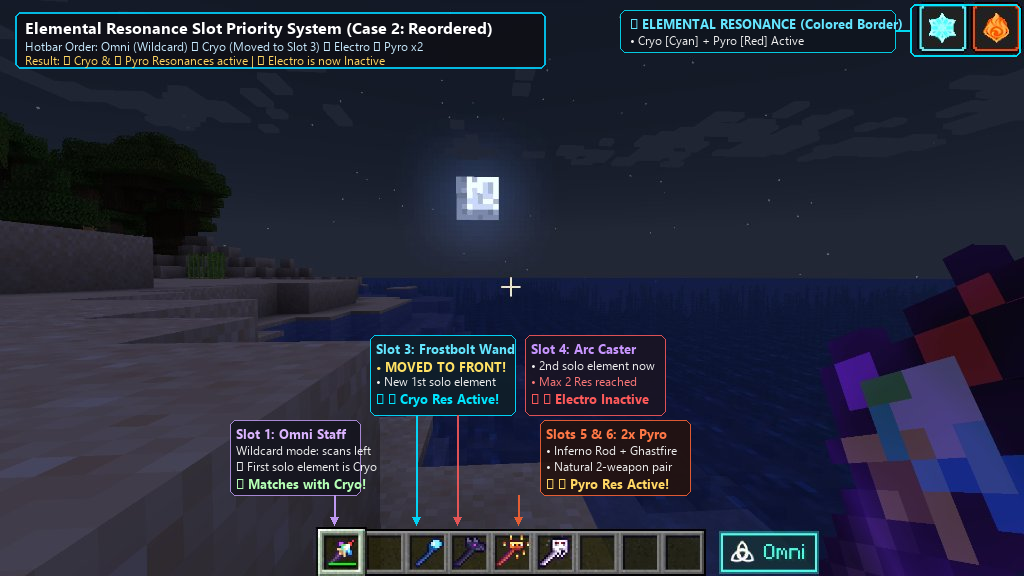
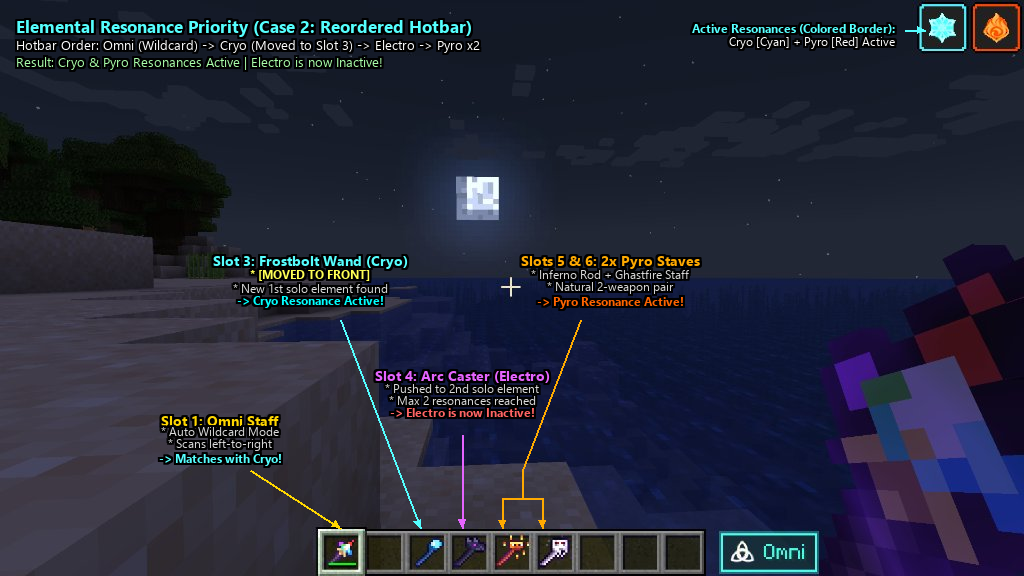
docs: redesign resonance showcase diagrams (frameless clean style), fix Blaze & Omni captions, add Fabric anvil plan

diff --git a/docs/wiki/Staves-List.md b/docs/wiki/Staves-List.md
@@ -91,7 +91,7 @@ Combine a **Netherite Upgrade Template** + **Any Basic Elemental Staff** + <img 
 
 | Staff | Element | Base & Netherite Stats | Crafting Recipe & Mechanics |
 | :--- | :---: | :--- | :--- |
-| <img src="https://raw.githubusercontent.com/hungbbdzz/velorise-staves/main/shared-resources/assets/velorise_staves/textures/item/guardian_lens.png" width="32" height="32" /><br/>**Guardian Lens** | <img src="https://raw.githubusercontent.com/hungbbdzz/velorise-staves/main/shared-resources/assets/velorise_staves/textures/element/hydro.png" width="16" height="16" /><br/>Hydro | **Reach:** 24m / 28m<br/>**Damage:** (10% to 20% caster Max HP) + 1U Hydro / (15% to 30% Max HP) + 1.5U Hydro<br/>**Cooldown:** 6.0s (Basic) / 5.0s (Netherite)<br/>**Durability:** 130 / 500 | **Recipe:** Shaped (1 Heart of the Sea + 1 Prismarine Shard + 1 Prismarine Crystals diagonal).<br/>**Ability:** Fires a concentrated Guardian prism beam. Damage scales directly as **1/10 (10%) of user's Max HP** (15% for Netherite), doubling to 20% (30% Netherite) if the user has recently taken or healed damage within the last 10 seconds.<br/>*(Note: In v1.0.0, the in-game item tooltip displays a legacy "x 10" suffix which is a visual tooltip error scheduled for cleanup in the next patch; the actual beam fires as a single focused hit).*<br/><br/><img src="https://raw.githubusercontent.com/hungbbdzz/velorise-staves/main/docs/showcase/crafting/craft_guardian_lens.png" width="220" /> |
+| <img src="https://raw.githubusercontent.com/hungbbdzz/velorise-staves/main/shared-resources/assets/velorise_staves/textures/item/guardian_lens.png" width="32" height="32" /><br/>**Guardian Lens** | <img src="https://raw.githubusercontent.com/hungbbdzz/velorise-staves/main/shared-resources/assets/velorise_staves/textures/element/hydro.png" width="16" height="16" /><br/>Hydro | **Reach:** 24m / 28m<br/>**Damage:** (10% to 20% user Max HP) x 10 hits + 1U Hydro / (15% to 30% Max HP) x 10 hits + 1.5U Hydro<br/>**Cooldown:** 6.0s (Basic) / 5.0s (Netherite)<br/>**Durability:** 130 / 500 | **Recipe:** Shaped (1 Heart of the Sea + 1 Prismarine Shard + 1 Prismarine Crystals diagonal).<br/>**Ability:** Channeled prism heat ray (2.5s duration, pulsing 10 beam ticks). Each tick deals **1/10 (10%) of the caster's Max HP** (15% for Netherite), doubling to 20% (30% Netherite) during HP fluctuation buffs (`hasRecentHpChangeBuff`). The in-game tooltip dynamically recalculates live based on your Max HP (scaling with Golden Apples, Health Boost, and Hydro Resonance +20% HP)!<br/><br/><img src="https://raw.githubusercontent.com/hungbbdzz/velorise-staves/main/docs/showcase/crafting/craft_guardian_lens.png" width="220" /> |
 | <img src="https://raw.githubusercontent.com/hungbbdzz/velorise-staves/main/shared-resources/assets/velorise_staves/textures/item/frostbolt_wand.png" width="32" height="32" /><br/>**Frostbolt Wand** | <img src="https://raw.githubusercontent.com/hungbbdzz/velorise-staves/main/shared-resources/assets/velorise_staves/textures/element/cryo.png" width="16" height="16" /><br/>Cryo | **Reach:** 28m / 28m (2.0m AoE)<br/>**Damage:** 3.0♥ x 3 burst shots + 1U Cryo / 4.5♥ x 3 burst shots + 1.5U Cryo<br/>**Cooldown:** 4.0s<br/>**Durability:** 150 / 500 | **Recipe:** Shaped (1 Blue Ice + 2 Blaze Rods diagonal).<br/>**Ability:** Fires 3 freezing orbs chilling and slowing enemies. Freezes surface water into temporary walkable frost.<br/><br/><img src="https://raw.githubusercontent.com/hungbbdzz/velorise-staves/main/docs/showcase/crafting/craft_frostbolt_wand.png" width="220" /> |
 | <img src="https://raw.githubusercontent.com/hungbbdzz/velorise-staves/main/shared-resources/assets/velorise_staves/textures/item/evoker_fang_staff.png" width="32" height="32" /><br/>**Evoker Fang Staff** | <img src="https://raw.githubusercontent.com/hungbbdzz/velorise-staves/main/shared-resources/assets/velorise_staves/textures/element/geo.png" width="16" height="16" /><br/>Geo | **Reach:** 13.5m (9 Fangs) / 19.5m (13 Fangs)<br/>**Damage:** 3.0♥ per fang + 1U Geo / 4.5♥ per fang + 1.5U Geo<br/>**Cooldown:** 5.0s<br/>**Durability:** 120 / 450 | **Recipe:** Shaped (1 Totem of Undying + 2 Blaze Rods diagonal).<br/>**Ability:** Summons a line of biting fangs and a 1x1 Geo Fang Pillar (HP = 1x creator's Max HP) that taunts mobs and pulses Geo waves.<br/><br/><img src="https://raw.githubusercontent.com/hungbbdzz/velorise-staves/main/docs/showcase/crafting/craft_evoker_fang_staff.png" width="220" /> |
 

diff --git a/docs/wiki/Elements-and-Reactions.md b/docs/wiki/Elements-and-Reactions.md
@@ -167,8 +167,8 @@ Carrying matching elemental weapons unlocks passive team-wide buffs known as **E
 
 ### Understanding the Top-Right HUD
 When playing with Velorise's Staves, the top-right corner of your screen dynamically tracks your active elemental state:
-* 🔲 **Colored Element Border (Viền màu nguyên tố):** Indicates an **Active Elemental Resonance** granting continuous passive combat buffs (e.g. Purple = Electro Resonance, Orange/Red = Pyro Resonance, Cyan = Cryo Resonance).
-* ⬛ **Dark / No Border (Viền tối không viền):** Indicates an **Afflicted Elemental Aura currently on your player's body** (e.g. Cyan Anemo, Blue Hydro, Violet Electro). Be mindful of incoming elemental attacks to avoid triggering hazardous self-reactions!
+* 🔲 **Colored Element Border:** Indicates an **Active Elemental Resonance** granting continuous passive combat buffs (e.g. Purple = Electro Resonance, Orange/Red = Pyro Resonance, Cyan = Cryo Resonance).
+* ⬛ **Dark / No Border:** Indicates an **Afflicted Elemental Aura currently on your player's body** (e.g. Cyan Anemo, Blue Hydro, Violet Electro). Be mindful of incoming elemental attacks to avoid triggering hazardous self-reactions!
 
 ### Slot Priority & Omni Staff Wildcard Pairing
 The resonance engine evaluates your inventory in strict sequential order:  
@@ -213,8 +213,8 @@ The world of Minecraft is populated by creatures that naturally channel volatile
 <div align="center">
   <table>
     <tr>
-      <td align="center"><b>Natural Innate Aura (Blaze)</b><br/><img src="https://raw.githubusercontent.com/hungbbdzz/velorise-staves/main/docs/showcase/innate_blaze.gif" width="340" /><br/><sub><i>Blazes inherently carry a permanent Pyro aura. Striking them with Hydro triggers immediate Vaporize.</i></sub></td>
-      <td align="center"><b>Rare Omni Mutation (Magic Immune)</b><br/><img src="https://raw.githubusercontent.com/hungbbdzz/velorise-staves/main/docs/showcase/omni_mob_immunity.gif" width="340" /><br/><sub><i>Omni-mutated mobs are 100% immune to all 7 magical elements, but highly vulnerable to physical strikes!</i></sub></td>
+      <td align="center"><b>Natural Innate Aura (Blaze)</b><br/><img src="https://raw.githubusercontent.com/hungbbdzz/velorise-staves/main/docs/showcase/innate_blaze.gif" width="340" /><br/><sub><i>Blazes inherently carry a permanent Pyro aura. Trigger elemental reactions immediately without needing to apply Pyro first!</i></sub></td>
+      <td align="center"><b>Rare Omni Mutation (Magic Immune)</b><br/><img src="https://raw.githubusercontent.com/hungbbdzz/velorise-staves/main/docs/showcase/omni_mob_immunity.gif" width="340" /><br/><sub><i>Omni-mutated mobs are 100% immune to all 7 magical elements — only physical damage (swords, bows, axes) can harm them!</i></sub></td>
     </tr>
   </table>
 </div>
@@ -234,7 +234,7 @@ Every newly spawned hostile mob has an innate **7% chance** (`innate_mutation_ch
 ### 3. The Omni Mutation (Primal Magic Immunity)
 Approximately 1 in 7 mutated mobs spawn with the legendary **Omni Mutation** (visible via a hovering Triquetra icon above their head):
 * 🛡 **Total Magic Immunity:** 100% immune to all 7 elemental forms of damage (Pyro, Hydro, Cryo, Electro, Dendro, Anemo, Geo). Magic projectiles and elemental spells deal zero damage.
-* ⚔ **Physical Vulnerability:** Omni mobs possess no defense against raw physical force. Standard swords, bows, crossbows, tridents, and axes deal normal (or amplified) physical damage, making weapon choice crucial!
+* ⚔ **Physical Attacks Only:** Omni mobs cannot be damaged by elemental magic. You must use physical attacks (swords, axes, bows, crossbows) to damage and defeat them!
 * 💎 **Guaranteed Rare Drop:** Defeating an Omni mob has a **25% chance** to drop the coveted **Omni Element**!
 
 ---

diff --git a/docs/PLANS.md b/docs/PLANS.md
@@ -45,9 +45,23 @@
 
 ---
 
-### 7. [Bugfix/Tooltip] Fix Guardian's Lens Tooltip (Remove Legacy "x 10" Suffix)
-* **Issue:** Following recent damage refactoring, Guardian's Lens fires a single focused beam dealing **1/10 (10%) of the caster's Max HP** (15% for Netherite), doubled to 20% (30% for Netherite) during HP fluctuation buffs (`hasRecentHpChangeBuff`). However, `ArcaneStaffItem.java` still appends a legacy `" x 10 "` string to the tooltip, incorrectly suggesting a 10-hit multi-strike (`1.5-3 ♥ x 10`).
-* **Goal:** Clean up `ArcaneStaffItem.java` line 946 to remove `" x 10 "`, displaying the accurate single-beam damage formula: `1.0–2.0 ♥ (10–20% Max HP)` for Basic and `1.5–3.0 ♥ (15–30% Max HP)` for Netherite.
+### 7. [UI/Tooltip] Guardian's Lens Max HP Scaling Tooltip Clarification
+* **Insight:** The in-game tooltip `1-2 ♥ x 10` (Basic) and `1.5-3 ♥ x 10` (Netherite) is completely dynamic and accurately reflects the 2.5s channeling beam (50 ticks / 5-tick interval = 10 hits, each hitting for 10% / 15% of caster Max HP).
+* **Issue:** Players cannot deduce from the raw numbers that their damage is actively scaling with their own Max HP.
+* **Goal:** Append an explanatory subtitle / tooltip line:
+  `✦ Scales with Caster's Max HP (10%/hit | 15% Netherite)`
+  making the HP-stacking build synergy obvious (especially when paired with Hydro Resonance +20% HP or Health Boost armor/buffs).
+
+---
+
+### 8. [Bugfix/Fabric] Investigate Anvil Sword Imbuing on Fabric 1.21.1
+* **Observation:** Sword imbuing with Elemental Essences via Anvil works flawlessly on NeoForge 1.21.1 (driven by `AnvilUpdateEvent`), but appears unresponsive or fails to produce output on Fabric 1.21.1.
+* **Root Cause Investigation:** On Fabric, anvil manipulation relies on `AnvilMenuMixin.java` injecting into `createResult(CallbackInfo ci)`. Check:
+  1. Whether `velorise$handleSwordImbue` correctly syncs result slot and XP cost across client and server (`ItemCombinerMenu.resultSlots.setItem` vs `AnvilMenu.onTake`).
+  2. Verify if Fabric mixin applies properly or if `createResult` gets called/reset by other menu methods or vanilla item combiner logic.
+  3. Ensure custom data / components (`TAG_IMBUED_ELEMENT`) are properly read and written in Fabric environment.
+
+
 
 
 
